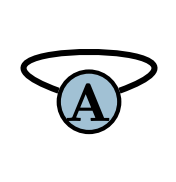
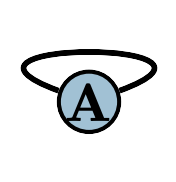
minor changes_png added

diff --git a/index.html b/index.html
@@ -777,7 +777,7 @@
         
         
 
-        <img src="/rg/media/teacher_hue296b7e4f64ec1e4f09413d6b3634be4_11149_400x0_resize_lanczos_3.png" srcset="/rg/media/teacher_hue296b7e4f64ec1e4f09413d6b3634be4_11149_1200x0_resize_lanczos_3.png 1200w,/rg/media/teacher_hue296b7e4f64ec1e4f09413d6b3634be4_11149_800x0_resize_lanczos_3.png 800w,/rg/media/teacher_hue296b7e4f64ec1e4f09413d6b3634be4_11149_400x0_resize_lanczos_3.png 400w" width="176" height="182" alt="Tensor Network Reading Group">
+        <img src="/rg/media/teacher_hu784a39f9d96b704b4dd5f0bdccfdeec2_10151_400x0_resize_lanczos_3.png" srcset="/rg/media/teacher_hu784a39f9d96b704b4dd5f0bdccfdeec2_10151_1200x0_resize_lanczos_3.png 1200w,/rg/media/teacher_hu784a39f9d96b704b4dd5f0bdccfdeec2_10151_800x0_resize_lanczos_3.png 800w,/rg/media/teacher_hu784a39f9d96b704b4dd5f0bdccfdeec2_10151_400x0_resize_lanczos_3.png 400w" width="176" height="182" alt="Tensor Network Reading Group">
       
     
   </div>

diff --git a/public/index.html b/public/index.html
@@ -777,7 +777,7 @@
         
         
 
-        <img src="/rg/media/teacher_hue296b7e4f64ec1e4f09413d6b3634be4_11149_400x0_resize_lanczos_3.png" srcset="/rg/media/teacher_hue296b7e4f64ec1e4f09413d6b3634be4_11149_1200x0_resize_lanczos_3.png 1200w,/rg/media/teacher_hue296b7e4f64ec1e4f09413d6b3634be4_11149_800x0_resize_lanczos_3.png 800w,/rg/media/teacher_hue296b7e4f64ec1e4f09413d6b3634be4_11149_400x0_resize_lanczos_3.png 400w" width="176" height="182" alt="Tensor Network Reading Group">
+        <img src="/rg/media/teacher_hu784a39f9d96b704b4dd5f0bdccfdeec2_10151_400x0_resize_lanczos_3.png" srcset="/rg/media/teacher_hu784a39f9d96b704b4dd5f0bdccfdeec2_10151_1200x0_resize_lanczos_3.png 1200w,/rg/media/teacher_hu784a39f9d96b704b4dd5f0bdccfdeec2_10151_800x0_resize_lanczos_3.png 800w,/rg/media/teacher_hu784a39f9d96b704b4dd5f0bdccfdeec2_10151_400x0_resize_lanczos_3.png 400w" width="176" height="182" alt="Tensor Network Reading Group">
       
     
   </div>
